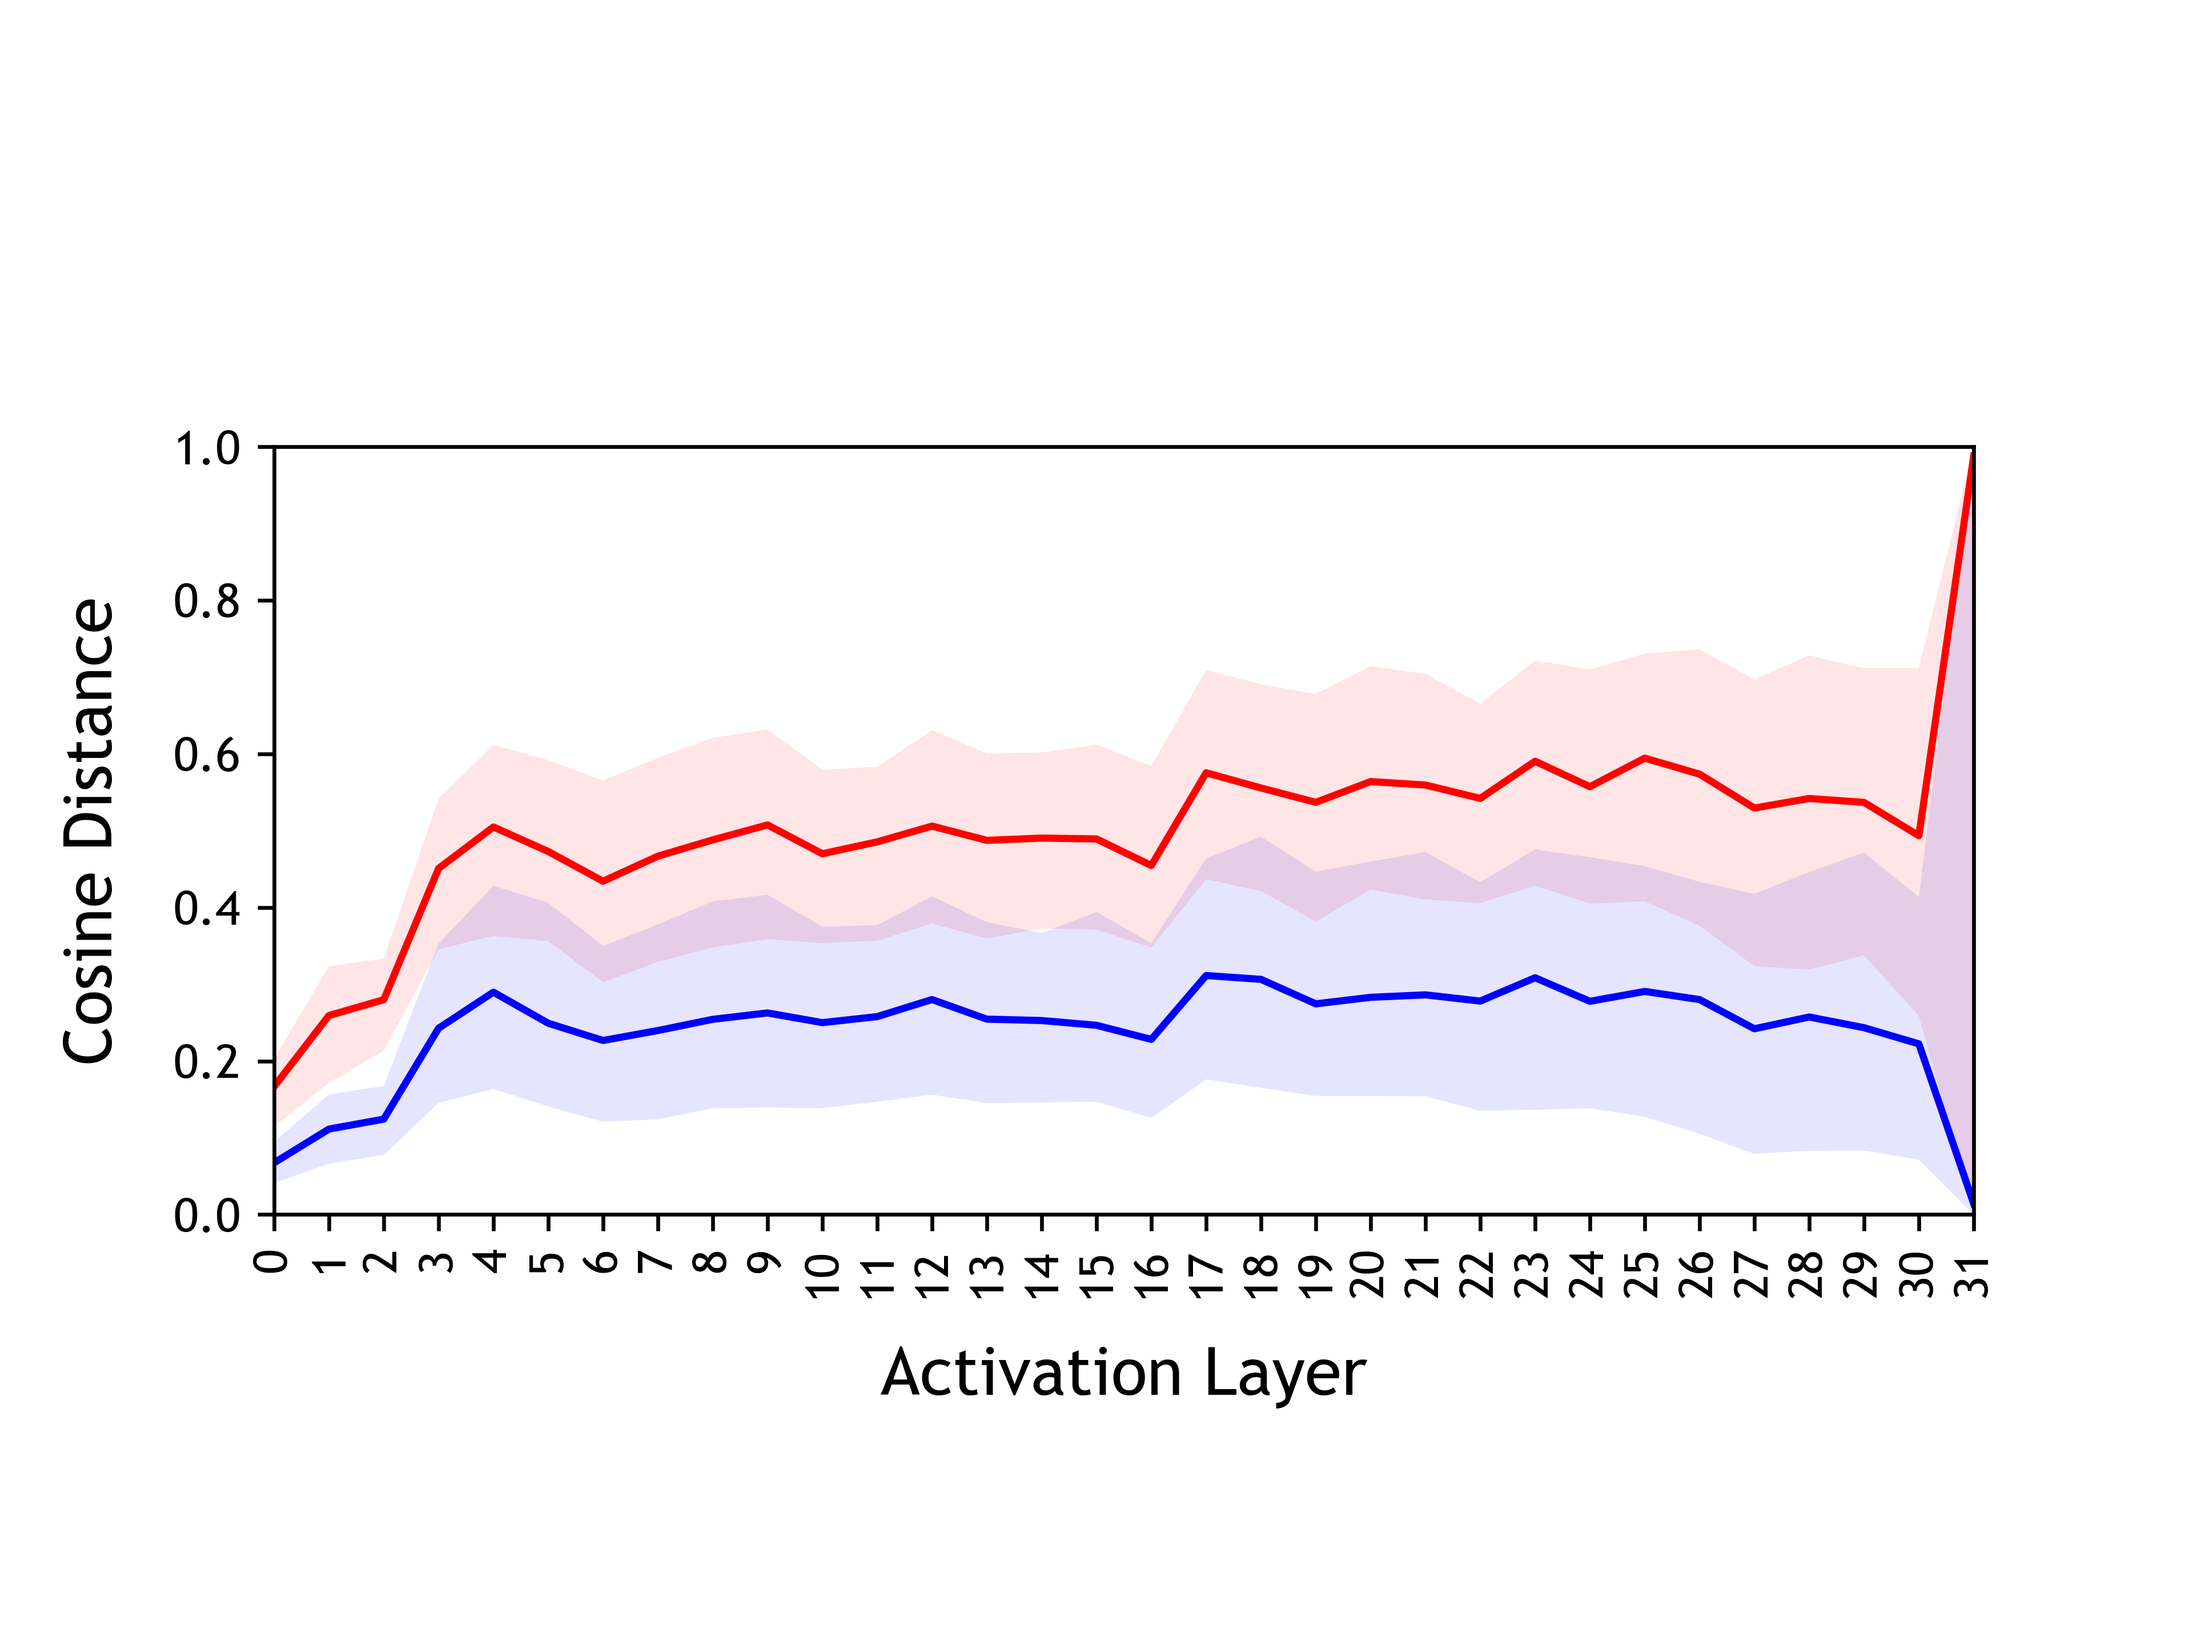
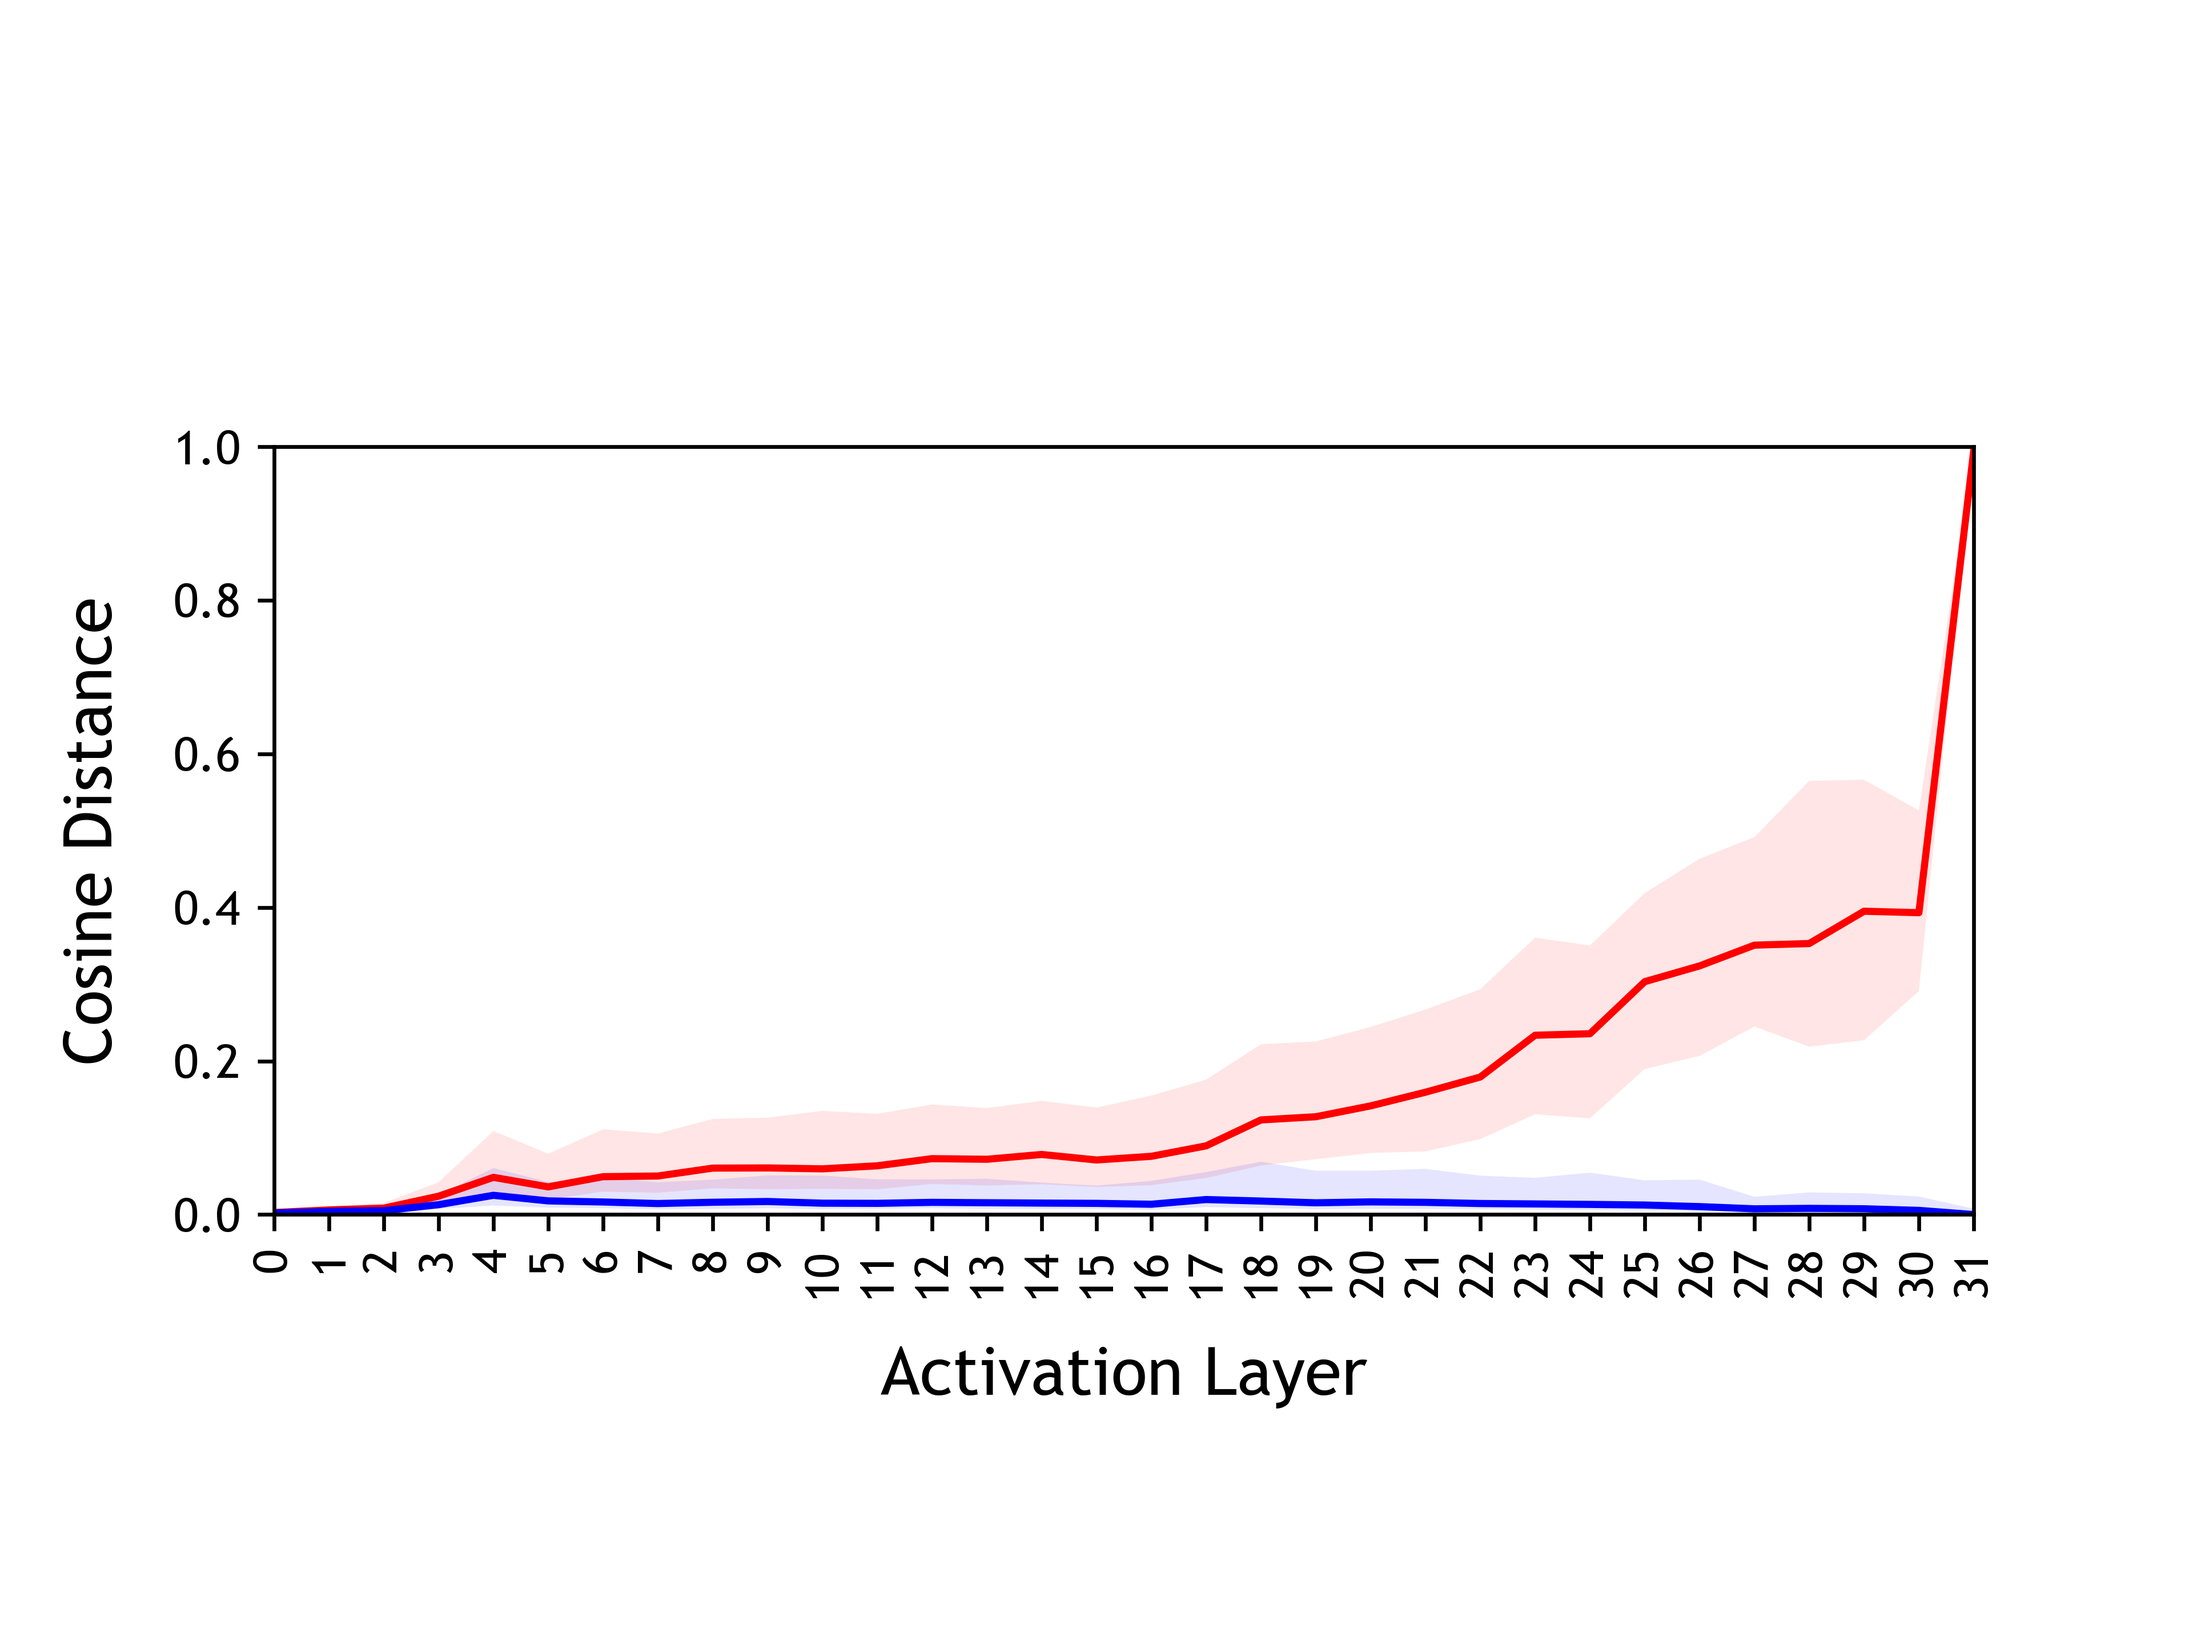
Added new attack data

Changed region(s): [[0.125, 0.3125, 0.9062, 0.75]]

diff --git a/plotter.py b/plotter.py
@@ -67,12 +67,12 @@ def cosine_cw2ll():
     plt.savefig('cw2ll_squeezed.png', dpi=DPI)
 
 def cifar_layer():
-    median, perc5, perc95 = read_data('cifar_layer_dist_adv.csv')
+    median, perc5, perc95 = read_data('cifar_layer_dist_cwinfll.csv')
     fig = pre_plot(plt)
     makeplot(fig, median, perc5, perc95, 
             label='Adversarial Samples', mark='-', color='r')
     
-    median, perc5, perc95 = read_data('cifar_layer_dist_rand.csv')
+    median, perc5, perc95 = read_data('cifar_layer_dist_rand_cwinfll.csv')
     makeplot(plt, median, perc5, perc95, 
             label='Randomly perturbed Samples', mark='-', color='b')
 
@@ -81,7 +81,7 @@ def cifar_layer():
     plt.savefig('adv_rand.png', dpi=DPI)
 
 def adv_layer():
-    median, perc5, perc95 = read_data('cifar_layer_dist_adv.csv')
+    median, perc5, perc95 = read_data('cifar_layer_dist_cwinfll.csv')
     fig = pre_plot(plt)
     makeplot(fig, median, perc5, perc95, 
             label='Adversarial Samples', mark='-', color='r')
